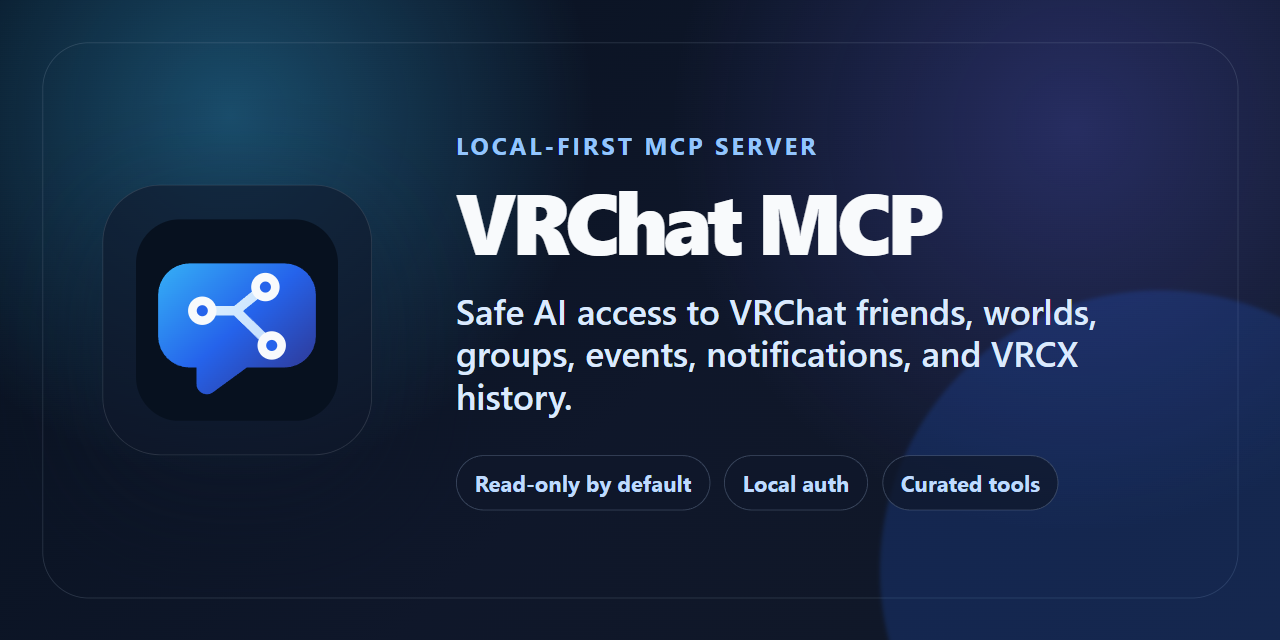
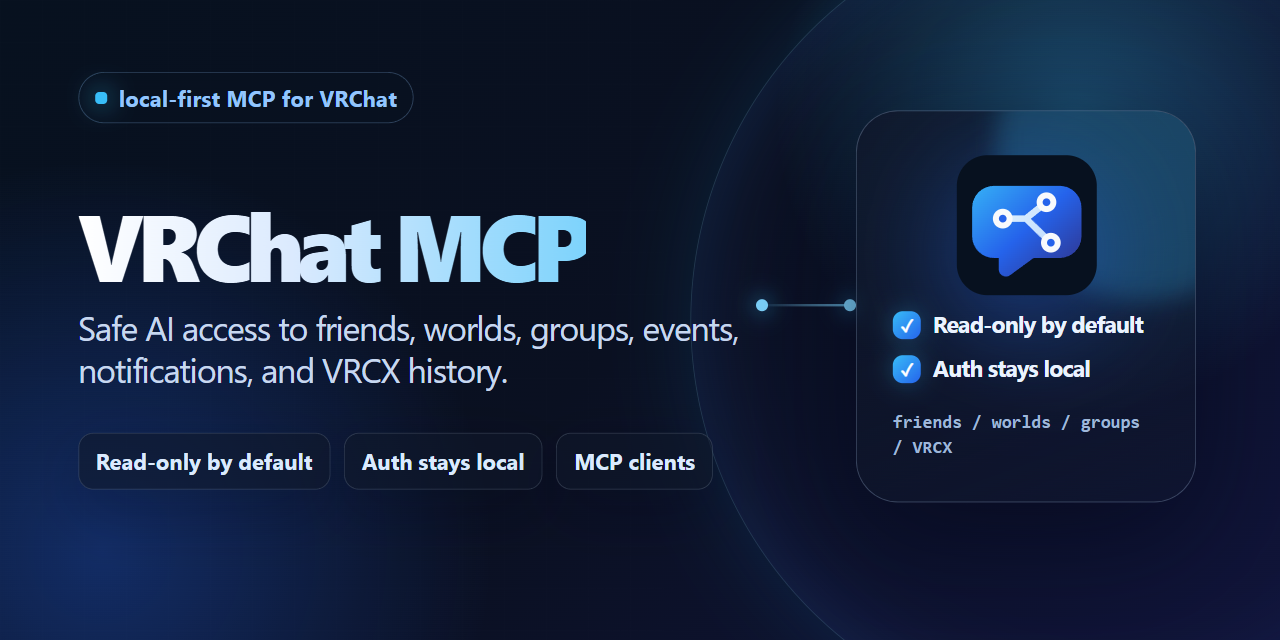
Address release review feedback

diff --git a/src/auth/index.ts b/src/auth/index.ts
@@ -179,6 +179,7 @@ class AuthManager {
       const buf = Buffer.isBuffer(chunk) ? chunk : Buffer.from(chunk);
       total += buf.length;
       if (total > MAX_LOGIN_BODY_BYTES) {
+        req.resume();
         throw new BodyTooLargeError();
       }
       chunks.push(buf);
@@ -388,6 +389,7 @@ class AuthManager {
       } catch (err) {
         if (err instanceof BodyTooLargeError) {
           res.statusCode = 413;
+          res.setHeader('Connection', 'close');
           res.end('Request body too large');
           return;
         }

diff --git a/docs/evals.md b/docs/evals.md
@@ -111,10 +111,19 @@ Create an eval config outside the repository, set `OPENAI_API_KEY` in your shell
 
 You can copy `test/fixtures/evals.live.example.json`; it references `OPENAI_API_KEY` by environment variable name only.
 
-Run live evals with:
+Run live evals from PowerShell with:
+
+```powershell
+$env:VRCHAT_MCP_LIVE_CONFIG_FILE = Join-Path $env:APPDATA 'vrchat-mcp\e2e.live.json'
+$env:VRCHAT_MCP_EVAL_CONFIG_FILE = Join-Path $env:APPDATA 'vrchat-mcp\evals.live.json'
+$env:VRCHAT_MCP_ENABLE_LIVE_EVALS = '1'
+npm test -- test/evals/live-llm.test.ts
+```
+
+Run live evals from bash with:
 
 ```bash
-VRCHAT_MCP_LIVE_CONFIG_FILE="%APPDATA%\\vrchat-mcp\\e2e.live.json" VRCHAT_MCP_EVAL_CONFIG_FILE="%APPDATA%\\vrchat-mcp\\evals.live.json" VRCHAT_MCP_ENABLE_LIVE_EVALS=1 npm test -- test/evals/live-llm.test.ts
+VRCHAT_MCP_LIVE_CONFIG_FILE="$HOME/.config/vrchat-mcp/e2e.live.json" VRCHAT_MCP_EVAL_CONFIG_FILE="$HOME/.config/vrchat-mcp/evals.live.json" VRCHAT_MCP_ENABLE_LIVE_EVALS=1 npm test -- test/evals/live-llm.test.ts
 ```
 
 If this fails before running test cases with a login error, run `npm run smoke:live` first. Smoke is the cheaper auth/session diagnostic.

diff --git a/README.md b/README.md
@@ -228,7 +228,7 @@ See `docs/evals.md` for the repeatable smoke, LLM, and manual agent evaluation w
 - `docs/architecture.md`: codebase overview and data flow.
 - `docs/curated-tools.md`: curated tool charter and risk tiers.
 - `docs/evals.md`: smoke, LLM, and manual agent eval workflow.
-- `docs/public-launch-plan.md`: release awareness, registry, and launch-channel plan.
+- [`docs/public-launch-plan.md`](https://github.com/BASIC-BIT/vrchat-mcp/blob/main/docs/public-launch-plan.md): release awareness, registry, and launch-channel plan.
 - `docs/vrcx.md`: local VRCX integration notes.
 - `docs/design-notes.md`: archived design notes and future-facing ideas.
 